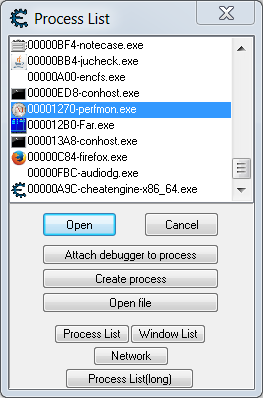
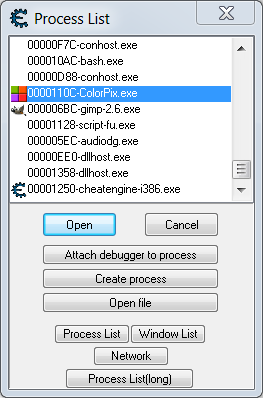
- Start the "32-bit Application Analyzing" subsection - Add screenshot of CoolPix application - Change Game Engine's screenshots

Changed region(s): [[0.0304, 0.0905, 0.8821, 0.4824], [0.0304, 0.0905, 0.1217, 0.1809], [0.8821, 0.392, 0.943, 0.4523]]

diff --git a/InGameBots/process-memory-analyzing.md b/InGameBots/process-memory-analyzing.md
@@ -87,9 +87,9 @@ Task of searching a specific variable in the application's memory is able to be 
 2. Define a base address of this segment.
 3. Define an offset of the variable inside the segment.
 
-Most probably, the variable will be kept in the same segment in each application's launch. Storing the variable in a heap is only one case when the owning segment can vary. It happens because of dynamic heaps creation mechanism. Therefore, it is possible to solve first task by analyzing application's memory in a run-time manually and then to hardcode the result into a bot application. 
+Most probably, the variable will be kept in the same segment on each application's launch. Storing the variable in a heap is only one case when the owning segment can vary. It happens because of dynamic heaps creation mechanism. Therefore, it is possible to solve first task by analyzing application's memory in a run-time manually and then to hardcode the result into a bot application. 
 
-It is not guarantee that variable's offset inside a segment will be the same in each application's launch. But the offset may remain unchanged or constant during several application's launch in some cases and it can vary in other cases. Type of owning segment defines, how it is probable that variables' offsets inside this segment will be constant. This is a table that describes this kind of probability:
+It is not guarantee that variable's offset inside a segment will be the same on each application's launch. But the offset may remain unchanged or constant during several application's launch in some cases and it can vary in other cases. Type of owning segment defines, how it is probable that variables' offsets inside this segment will be constant. This is a table that describes this kind of probability:
 
 | Segment Type | Offset Constancy |
 | -- | -- |
@@ -101,6 +101,58 @@ It is not guarantee that variable's offset inside a segment will be the same in 
 Task of segment's base address definition should be solved by the bot application each time when a game application is launched.
 
 ### 32-bit Application Analyzing
+
+Memory of [CoolPix](https://www.colorschemer.com/colorpix_info.php) 32-bit application will be considered now. This application have been described and used in "Clicker Bots" chapter. This is a screenshoot of the application's window:
+
+![CoolPix](coolpix.png)
+
+We will looking for a variable that matches to the X coordinate of the selected pixel on the screen. This value is underscored by red line in the screenshot. 
+
+First task is looking for a segment which contains a variable with X coordinate value. This task can be done in two steps:
+
+1. Find absolute address of the variable with Cheat Engine memory scanner.
+2. Compare discovered absolute address with base addresses and lengths of process's segments. It allows to deduce a segment which contains the variable.
+
+This is an algorithm of searching the variable's address with Cheat Engine scanner:
+
+1. Launch 32-bit version of the Cheat Engine scanner with administrator privileges.
+2. Select "Open Process" item of the "File" menu. You will see a dialog with list of launched applications at the moment:
+
+![Cheat Engine Process List](cheatengine-process-list.png)
+
+3. Select the process with a "ColorPix.exe" name in the list and press "Open" button. Now the process's name is displayed above the progress bar at the top of Cheat Engine's window.
+
+4. Type current value of the X coordinate into the "Value" control of the Cheat Engine's window.
+
+5. Press the "First Scan" button to scan memory of CoolPix. Number in the "Value" control should match the X coordnate that is displayed in CoolPix window when you are pressing the button. You can use `Tab` and `Shift`+`Tab` keys to switch between "Value" control and "First Scan" button. It allows you to keep pixel coordinate the same.
+
+Search result will be displayed in the list of Cheat Engine's window:
+
+![Cheat Engine Result](cheatengine-result.png)
+
+If there are several values in the results list you should cut off incorrect variables. Type new value of the the available memory amount into the "Value" control and press "Next Scan" button. Be sure that the new value differs from a previous one. You can launch any application like Notepad for changing the available memory amount.
+
+Now we know an absolute address of the variable. The address equals to "00352FF4" in hexadecimal system. Next step is investigation of process's segments with debugger to figure out the segment which contains the variable. Difference between x64dbg and OllyDbg debuggers is automatically detection of stack and heap segments in the process's memory map. OllyDbg detects these kinds of segments automatically but x64dbg does not. It is possible to repeat this segments detection of OllyDbg debugger manually. Each TEB segment contains base address of the thread's stack segment. PEB segment contains base address of the default heap segment.
+
+This is an algorithm of searching the segment:
+
+1. Launch 64-bit version of the x64dbg debugger administrator privileges. Example path of the debugger's executable file is `C:\Program Files\x64dbg\release\x64\x64dbg.exe`.
+
+2. Select "Attach" item of the "File" menu. You will see a dialog with list of launched 64-bit applications at the moment:
+
+![x64dbg Process List](x64dbg-process-list.png)
+
+3. Select the process with a "perfmon.exe" name in the list and press "Attach" button. When attachment process will be finished you will see a "Paused" text in the left-bottom corner of the x64dbg window.
+
+4. Switch to the "Memory Map" tab to see process's memory segments. The x64dbg window should looks like this now:
+
+![x64dbg Memory Map](x64dbg-memory-map.png)
+
+TODO: Describe algorithm:
++1. Use Cheat Engine for searching variable address
+2. Attach OllyDbg to clarify the variable's segment
+
+TODO: Add screenshots of OllyDbg memory map. Describe methods of investigation it.
 
 TODO: Analyze the memory of CoolPix tool here.
 
